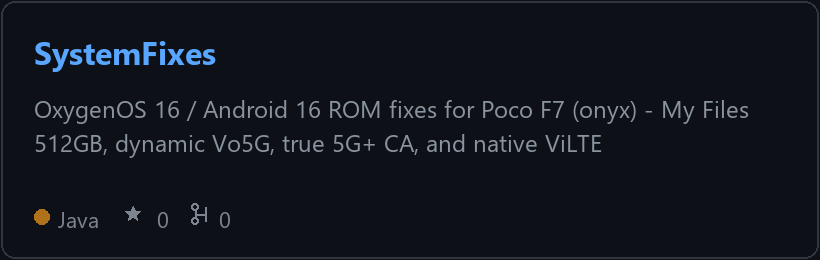
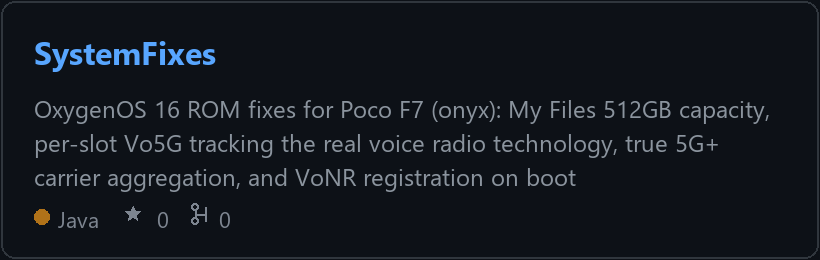
regenerate cards with the corrected SystemFixes description

Changed region(s): [[0.2134, 0.3692, 0.9451, 0.4615], [0.0305, 0.5231, 0.8841, 0.6154], [0.0305, 0.6462, 0.7012, 0.7385]]

diff --git a/update_readme.py b/update_readme.py
@@ -1,12 +1,15 @@
 """Rebuild the profile README.
 
-Layout notes, all learned the hard way against GitHub's renderer:
+Layout notes, each learned by breaking it once against GitHub's renderer:
 
-* Cards go in <p align="center"> rows, not a <table>. GitHub's sanitizer drops
-  <picture>/<source> inside table cells, which silently blanked every card.
-* Social links are single badge images. Inline <img> plus text cannot be trusted to
+* Cards sit two-per-row inside a single-line <p align="center">. A blank line anywhere
+  inside that block closes it, and GitHub then renders each card as its own
+  left-aligned paragraph — which is how the grid collapsed into one column.
+* Not a <table>: GitHub's sanitizer drops <picture>/<source> inside table cells,
+  which silently blanked every card.
+* Social links are single badge images; inline <img> plus text cannot be trusted to
   align because each mark has different internal padding.
-* Stack marks carry valign="middle"; inline images default to baseline.
+* Stack marks carry valign="middle" since inline images default to baseline.
 """
 import pathlib
 
@@ -31,7 +34,7 @@ HEIGHT = 42
 def mark(key, label, themed=False):
     if themed:
         return (
-            f'<picture>'
+            '<picture>'
             f'<source media="(prefers-color-scheme: dark)" srcset="{P}/{key}-dark.svg">'
             f'<source media="(prefers-color-scheme: light)" srcset="{P}/{key}.svg">'
             f'<img src="{P}/{key}.svg" height="{HEIGHT}" valign="middle" '
@@ -51,40 +54,36 @@ def card(name):
     )
 
 
-def block(items):
-    return '<p align="center">\n\n' + "\n\n".join(items) + "\n\n</p>"
+def row(*parts):
+    """One HTML block, no blank lines, so the parts stay on the same line."""
+    return '<p align="center">' + " &nbsp;&nbsp;&nbsp; ".join(parts) + "</p>"
 
 
-card_rows = [block([card(n) for n in CARDS[i:i + 2]]) for i in range(0, len(CARDS), 2)]
+card_rows = [row(*[card(n) for n in CARDS[i:i + 2]]) for i in range(0, len(CARDS), 2)]
+stack_line = row(*[mark(k, l, themed=(k == "linux")) for k, l in STACK])
 
-stack_line = block([
-    " &nbsp; ".join(mark(k, l, themed=(k == "linux")) for k, l in STACK)
-])
-
-social_line = block([
-    " &nbsp;&nbsp;&nbsp; ".join(
-        f'<a href="{href}"><img src="{B}/{name}.png" height="30" alt="{alt}" /></a>'
-        for href, name, alt in [
-            ("https://www.linkedin.com/in/a092devs", "linkedin", "LinkedIn"),
-            ("https://twitter.com/a092devs", "x", "X"),
-            ("mailto:arsalanakhtar0@gmail.com", "envelope-src", "Email"),
-        ]
-    )
+social_line = row(*[
+    f'<a href="{href}"><img src="{B}/{name}.png" height="30" alt="{alt}" /></a>'
+    for href, name, alt in [
+        ("https://www.linkedin.com/in/a092devs", "linkedin", "LinkedIn"),
+        ("https://twitter.com/a092devs", "x", "X"),
+        ("mailto:arsalanakhtar0@gmail.com", "envelope-src", "Email"),
+    ]
 ])
 
 banner = (
-    '<picture>\n'
-    f'  <source media="(prefers-color-scheme: dark)" srcset="{A}/typing-dark.gif">\n'
-    f'  <source media="(prefers-color-scheme: light)" srcset="{A}/typing-light.gif">\n'
-    f'  <img src="{A}/typing-dark.gif" alt="Android, web and data work" width="620" />\n'
+    '<picture>'
+    f'<source media="(prefers-color-scheme: dark)" srcset="{A}/typing-dark.gif">'
+    f'<source media="(prefers-color-scheme: light)" srcset="{A}/typing-light.gif">'
+    f'<img src="{A}/typing-dark.gif" alt="Android, web and data work" width="620" />'
     '</picture>'
 )
 
 stats = (
-    '<picture>\n'
-    f'  <source media="(prefers-color-scheme: dark)" srcset="{A}/stats-dark.png">\n'
-    f'  <source media="(prefers-color-scheme: light)" srcset="{A}/stats-light.png">\n'
-    f'  <img src="{A}/stats-dark.png" alt="GitHub stats" width="420" />\n'
+    '<picture>'
+    f'<source media="(prefers-color-scheme: dark)" srcset="{A}/stats-dark.png">'
+    f'<source media="(prefers-color-scheme: light)" srcset="{A}/stats-light.png">'
+    f'<img src="{A}/stats-dark.png" alt="GitHub stats" width="420" />'
     '</picture>'
 )
 
@@ -111,7 +110,7 @@ on top of it. Most of what I do is reading code I didn't write and getting it to
 
 {chr(10).join(card_rows)}
 
-<p align="center">The rest of it lives in the <a href="https://github.com/a092devs?tab=repositories">repository list</a>.</p>
+{row('<a href="https://github.com/a092devs?tab=repositories">The rest of it lives in the repository list</a>')}
 
 ---
 
@@ -131,4 +130,5 @@ on top of it. Most of what I do is reading code I didn't write and getting it to
 pathlib.Path("profile_README.md").write_text(doc, encoding="utf-8")
 b = doc.encode("utf-8")
 print("bytes:", len(b), "| backslashes:", b.count(bytes([92])))
-print("cards:", doc.count("cards/"), "| badges:", doc.count("/badges/"), "| marks:", doc.count(f"{P}/"))
+print("card rows:", len(card_rows), "| marks:", doc.count(f'{P}/'), "| badges:", doc.count(f"{B}/"))
+print("blank lines inside any <p>:", doc.count("<p align=\"center\">\n\n"))

diff --git a/profile_README.md b/profile_README.md
@@ -2,17 +2,9 @@
 
 # Hi, I'm Arsalan 👋
 
-<picture>
-  <source media="(prefers-color-scheme: dark)" srcset="https://raw.githubusercontent.com/a092devs/profile-assets/main/assets/typing-dark.gif">
-  <source media="(prefers-color-scheme: light)" srcset="https://raw.githubusercontent.com/a092devs/profile-assets/main/assets/typing-light.gif">
-  <img src="https://raw.githubusercontent.com/a092devs/profile-assets/main/assets/typing-dark.gif" alt="Android, web and data work" width="620" />
-</picture>
+<picture><source media="(prefers-color-scheme: dark)" srcset="https://raw.githubusercontent.com/a092devs/profile-assets/main/assets/typing-dark.gif"><source media="(prefers-color-scheme: light)" srcset="https://raw.githubusercontent.com/a092devs/profile-assets/main/assets/typing-light.gif"><img src="https://raw.githubusercontent.com/a092devs/profile-assets/main/assets/typing-dark.gif" alt="Android, web and data work" width="620" /></picture>
 
-<p align="center">
-
-<a href="https://www.linkedin.com/in/a092devs"><img src="https://a092devs.github.io/profile-assets/badges/linkedin.png" height="30" alt="LinkedIn" /></a> &nbsp;&nbsp;&nbsp; <a href="https://twitter.com/a092devs"><img src="https://a092devs.github.io/profile-assets/badges/x.png" height="30" alt="X" /></a> &nbsp;&nbsp;&nbsp; <a href="mailto:arsalanakhtar0@gmail.com"><img src="https://a092devs.github.io/profile-assets/badges/envelope-src.png" height="30" alt="Email" /></a>
-
-</p>
+<p align="center"><a href="https://www.linkedin.com/in/a092devs"><img src="https://a092devs.github.io/profile-assets/badges/linkedin.png" height="30" alt="LinkedIn" /></a> &nbsp;&nbsp;&nbsp; <a href="https://twitter.com/a092devs"><img src="https://a092devs.github.io/profile-assets/badges/x.png" height="30" alt="X" /></a> &nbsp;&nbsp;&nbsp; <a href="mailto:arsalanakhtar0@gmail.com"><img src="https://a092devs.github.io/profile-assets/badges/envelope-src.png" height="30" alt="Email" /></a></p>
 
 </div>
 
@@ -27,48 +19,22 @@ on top of it. Most of what I do is reading code I didn't write and getting it to
 
 ### 🌟 Selected work
 
-<p align="center">
+<p align="center"><a href="https://github.com/a092devs/NexAlloyNext"><picture><source media="(prefers-color-scheme: dark)" srcset="https://raw.githubusercontent.com/a092devs/profile-assets/main/assets/cards/NexAlloyNext-dark.png"><source media="(prefers-color-scheme: light)" srcset="https://raw.githubusercontent.com/a092devs/profile-assets/main/assets/cards/NexAlloyNext-light.png"><img src="https://raw.githubusercontent.com/a092devs/profile-assets/main/assets/cards/NexAlloyNext-dark.png" width="47%" alt="NexAlloyNext" /></picture></a> &nbsp;&nbsp;&nbsp; <a href="https://github.com/a092devs/NexAlloyNext-Patches"><picture><source media="(prefers-color-scheme: dark)" srcset="https://raw.githubusercontent.com/a092devs/profile-assets/main/assets/cards/NexAlloyNext-Patches-dark.png"><source media="(prefers-color-scheme: light)" srcset="https://raw.githubusercontent.com/a092devs/profile-assets/main/assets/cards/NexAlloyNext-Patches-light.png"><img src="https://raw.githubusercontent.com/a092devs/profile-assets/main/assets/cards/NexAlloyNext-Patches-dark.png" width="47%" alt="NexAlloyNext-Patches" /></picture></a></p>
+<p align="center"><a href="https://github.com/a092devs/SystemFixes"><picture><source media="(prefers-color-scheme: dark)" srcset="https://raw.githubusercontent.com/a092devs/profile-assets/main/assets/cards/SystemFixes-dark.png"><source media="(prefers-color-scheme: light)" srcset="https://raw.githubusercontent.com/a092devs/profile-assets/main/assets/cards/SystemFixes-light.png"><img src="https://raw.githubusercontent.com/a092devs/profile-assets/main/assets/cards/SystemFixes-dark.png" width="47%" alt="SystemFixes" /></picture></a> &nbsp;&nbsp;&nbsp; <a href="https://github.com/a092devs/GameUnlocker"><picture><source media="(prefers-color-scheme: dark)" srcset="https://raw.githubusercontent.com/a092devs/profile-assets/main/assets/cards/GameUnlocker-dark.png"><source media="(prefers-color-scheme: light)" srcset="https://raw.githubusercontent.com/a092devs/profile-assets/main/assets/cards/GameUnlocker-light.png"><img src="https://raw.githubusercontent.com/a092devs/profile-assets/main/assets/cards/GameUnlocker-dark.png" width="47%" alt="GameUnlocker" /></picture></a></p>
+<p align="center"><a href="https://github.com/a092devs/OpsVista"><picture><source media="(prefers-color-scheme: dark)" srcset="https://raw.githubusercontent.com/a092devs/profile-assets/main/assets/cards/OpsVista-dark.png"><source media="(prefers-color-scheme: light)" srcset="https://raw.githubusercontent.com/a092devs/profile-assets/main/assets/cards/OpsVista-light.png"><img src="https://raw.githubusercontent.com/a092devs/profile-assets/main/assets/cards/OpsVista-dark.png" width="47%" alt="OpsVista" /></picture></a> &nbsp;&nbsp;&nbsp; <a href="https://github.com/a092devs/DataFoundry"><picture><source media="(prefers-color-scheme: dark)" srcset="https://raw.githubusercontent.com/a092devs/profile-assets/main/assets/cards/DataFoundry-dark.png"><source media="(prefers-color-scheme: light)" srcset="https://raw.githubusercontent.com/a092devs/profile-assets/main/assets/cards/DataFoundry-light.png"><img src="https://raw.githubusercontent.com/a092devs/profile-assets/main/assets/cards/DataFoundry-dark.png" width="47%" alt="DataFoundry" /></picture></a></p>
 
-<a href="https://github.com/a092devs/NexAlloyNext"><picture><source media="(prefers-color-scheme: dark)" srcset="https://raw.githubusercontent.com/a092devs/profile-assets/main/assets/cards/NexAlloyNext-dark.png"><source media="(prefers-color-scheme: light)" srcset="https://raw.githubusercontent.com/a092devs/profile-assets/main/assets/cards/NexAlloyNext-light.png"><img src="https://raw.githubusercontent.com/a092devs/profile-assets/main/assets/cards/NexAlloyNext-dark.png" width="47%" alt="NexAlloyNext" /></picture></a>
-
-<a href="https://github.com/a092devs/NexAlloyNext-Patches"><picture><source media="(prefers-color-scheme: dark)" srcset="https://raw.githubusercontent.com/a092devs/profile-assets/main/assets/cards/NexAlloyNext-Patches-dark.png"><source media="(prefers-color-scheme: light)" srcset="https://raw.githubusercontent.com/a092devs/profile-assets/main/assets/cards/NexAlloyNext-Patches-light.png"><img src="https://raw.githubusercontent.com/a092devs/profile-assets/main/assets/cards/NexAlloyNext-Patches-dark.png" width="47%" alt="NexAlloyNext-Patches" /></picture></a>
-
-</p>
-<p align="center">
-
-<a href="https://github.com/a092devs/SystemFixes"><picture><source media="(prefers-color-scheme: dark)" srcset="https://raw.githubusercontent.com/a092devs/profile-assets/main/assets/cards/SystemFixes-dark.png"><source media="(prefers-color-scheme: light)" srcset="https://raw.githubusercontent.com/a092devs/profile-assets/main/assets/cards/SystemFixes-light.png"><img src="https://raw.githubusercontent.com/a092devs/profile-assets/main/assets/cards/SystemFixes-dark.png" width="47%" alt="SystemFixes" /></picture></a>
-
-<a href="https://github.com/a092devs/GameUnlocker"><picture><source media="(prefers-color-scheme: dark)" srcset="https://raw.githubusercontent.com/a092devs/profile-assets/main/assets/cards/GameUnlocker-dark.png"><source media="(prefers-color-scheme: light)" srcset="https://raw.githubusercontent.com/a092devs/profile-assets/main/assets/cards/GameUnlocker-light.png"><img src="https://raw.githubusercontent.com/a092devs/profile-assets/main/assets/cards/GameUnlocker-dark.png" width="47%" alt="GameUnlocker" /></picture></a>
-
-</p>
-<p align="center">
-
-<a href="https://github.com/a092devs/OpsVista"><picture><source media="(prefers-color-scheme: dark)" srcset="https://raw.githubusercontent.com/a092devs/profile-assets/main/assets/cards/OpsVista-dark.png"><source media="(prefers-color-scheme: light)" srcset="https://raw.githubusercontent.com/a092devs/profile-assets/main/assets/cards/OpsVista-light.png"><img src="https://raw.githubusercontent.com/a092devs/profile-assets/main/assets/cards/OpsVista-dark.png" width="47%" alt="OpsVista" /></picture></a>
-
-<a href="https://github.com/a092devs/DataFoundry"><picture><source media="(prefers-color-scheme: dark)" srcset="https://raw.githubusercontent.com/a092devs/profile-assets/main/assets/cards/DataFoundry-dark.png"><source media="(prefers-color-scheme: light)" srcset="https://raw.githubusercontent.com/a092devs/profile-assets/main/assets/cards/DataFoundry-light.png"><img src="https://raw.githubusercontent.com/a092devs/profile-assets/main/assets/cards/DataFoundry-dark.png" width="47%" alt="DataFoundry" /></picture></a>
-
-</p>
-
-<p align="center">The rest of it lives in the <a href="https://github.com/a092devs?tab=repositories">repository list</a>.</p>
+<p align="center"><a href="https://github.com/a092devs?tab=repositories">The rest of it lives in the repository list</a></p>
 
 ---
 
 ### 🛠 Stack
 
-<p align="center">
-
-<img src="https://a092devs.github.io/profile-assets/icons/kotlin.svg" height="42" valign="middle" alt="Kotlin" title="Kotlin" /> &nbsp; <img src="https://a092devs.github.io/profile-assets/icons/java.svg" height="42" valign="middle" alt="Java" title="Java" /> &nbsp; <img src="https://a092devs.github.io/profile-assets/icons/cpp.svg" height="42" valign="middle" alt="C++" title="C++" /> &nbsp; <img src="https://a092devs.github.io/profile-assets/icons/python.svg" height="42" valign="middle" alt="Python" title="Python" /> &nbsp; <img src="https://a092devs.github.io/profile-assets/icons/fastapi.svg" height="42" valign="middle" alt="FastAPI" title="FastAPI" /> &nbsp; <img src="https://a092devs.github.io/profile-assets/icons/nodejs.svg" height="42" valign="middle" alt="Node.js" title="Node.js" /> &nbsp; <img src="https://a092devs.github.io/profile-assets/icons/react.svg" height="42" valign="middle" alt="React" title="React" /> &nbsp; <img src="https://a092devs.github.io/profile-assets/icons/javascript.svg" height="42" valign="middle" alt="JavaScript" title="JavaScript" /> &nbsp; <img src="https://a092devs.github.io/profile-assets/icons/tailwindcss.svg" height="42" valign="middle" alt="Tailwind CSS" title="Tailwind CSS" /> &nbsp; <img src="https://a092devs.github.io/profile-assets/icons/postgresql.svg" height="42" valign="middle" alt="PostgreSQL" title="PostgreSQL" /> &nbsp; <img src="https://a092devs.github.io/profile-assets/icons/docker.svg" height="42" valign="middle" alt="Docker" title="Docker" /> &nbsp; <img src="https://a092devs.github.io/profile-assets/icons/git.svg" height="42" valign="middle" alt="Git" title="Git" /> &nbsp; <picture><source media="(prefers-color-scheme: dark)" srcset="https://a092devs.github.io/profile-assets/icons/linux-dark.svg"><source media="(prefers-color-scheme: light)" srcset="https://a092devs.github.io/profile-assets/icons/linux.svg"><img src="https://a092devs.github.io/profile-assets/icons/linux.svg" height="42" valign="middle" alt="Linux" title="Linux" /></picture>
-
-</p>
+<p align="center"><img src="https://a092devs.github.io/profile-assets/icons/kotlin.svg" height="42" valign="middle" alt="Kotlin" title="Kotlin" /> &nbsp;&nbsp;&nbsp; <img src="https://a092devs.github.io/profile-assets/icons/java.svg" height="42" valign="middle" alt="Java" title="Java" /> &nbsp;&nbsp;&nbsp; <img src="https://a092devs.github.io/profile-assets/icons/cpp.svg" height="42" valign="middle" alt="C++" title="C++" /> &nbsp;&nbsp;&nbsp; <img src="https://a092devs.github.io/profile-assets/icons/python.svg" height="42" valign="middle" alt="Python" title="Python" /> &nbsp;&nbsp;&nbsp; <img src="https://a092devs.github.io/profile-assets/icons/fastapi.svg" height="42" valign="middle" alt="FastAPI" title="FastAPI" /> &nbsp;&nbsp;&nbsp; <img src="https://a092devs.github.io/profile-assets/icons/nodejs.svg" height="42" valign="middle" alt="Node.js" title="Node.js" /> &nbsp;&nbsp;&nbsp; <img src="https://a092devs.github.io/profile-assets/icons/react.svg" height="42" valign="middle" alt="React" title="React" /> &nbsp;&nbsp;&nbsp; <img src="https://a092devs.github.io/profile-assets/icons/javascript.svg" height="42" valign="middle" alt="JavaScript" title="JavaScript" /> &nbsp;&nbsp;&nbsp; <img src="https://a092devs.github.io/profile-assets/icons/tailwindcss.svg" height="42" valign="middle" alt="Tailwind CSS" title="Tailwind CSS" /> &nbsp;&nbsp;&nbsp; <img src="https://a092devs.github.io/profile-assets/icons/postgresql.svg" height="42" valign="middle" alt="PostgreSQL" title="PostgreSQL" /> &nbsp;&nbsp;&nbsp; <img src="https://a092devs.github.io/profile-assets/icons/docker.svg" height="42" valign="middle" alt="Docker" title="Docker" /> &nbsp;&nbsp;&nbsp; <img src="https://a092devs.github.io/profile-assets/icons/git.svg" height="42" valign="middle" alt="Git" title="Git" /> &nbsp;&nbsp;&nbsp; <picture><source media="(prefers-color-scheme: dark)" srcset="https://a092devs.github.io/profile-assets/icons/linux-dark.svg"><source media="(prefers-color-scheme: light)" srcset="https://a092devs.github.io/profile-assets/icons/linux.svg"><img src="https://a092devs.github.io/profile-assets/icons/linux.svg" height="42" valign="middle" alt="Linux" title="Linux" /></picture></p>
 
 ---
 
 <div align="center">
 
-<picture>
-  <source media="(prefers-color-scheme: dark)" srcset="https://raw.githubusercontent.com/a092devs/profile-assets/main/assets/stats-dark.png">
-  <source media="(prefers-color-scheme: light)" srcset="https://raw.githubusercontent.com/a092devs/profile-assets/main/assets/stats-light.png">
-  <img src="https://raw.githubusercontent.com/a092devs/profile-assets/main/assets/stats-dark.png" alt="GitHub stats" width="420" />
-</picture>
+<picture><source media="(prefers-color-scheme: dark)" srcset="https://raw.githubusercontent.com/a092devs/profile-assets/main/assets/stats-dark.png"><source media="(prefers-color-scheme: light)" srcset="https://raw.githubusercontent.com/a092devs/profile-assets/main/assets/stats-light.png"><img src="https://raw.githubusercontent.com/a092devs/profile-assets/main/assets/stats-dark.png" alt="GitHub stats" width="420" /></picture>
 
 </div>
